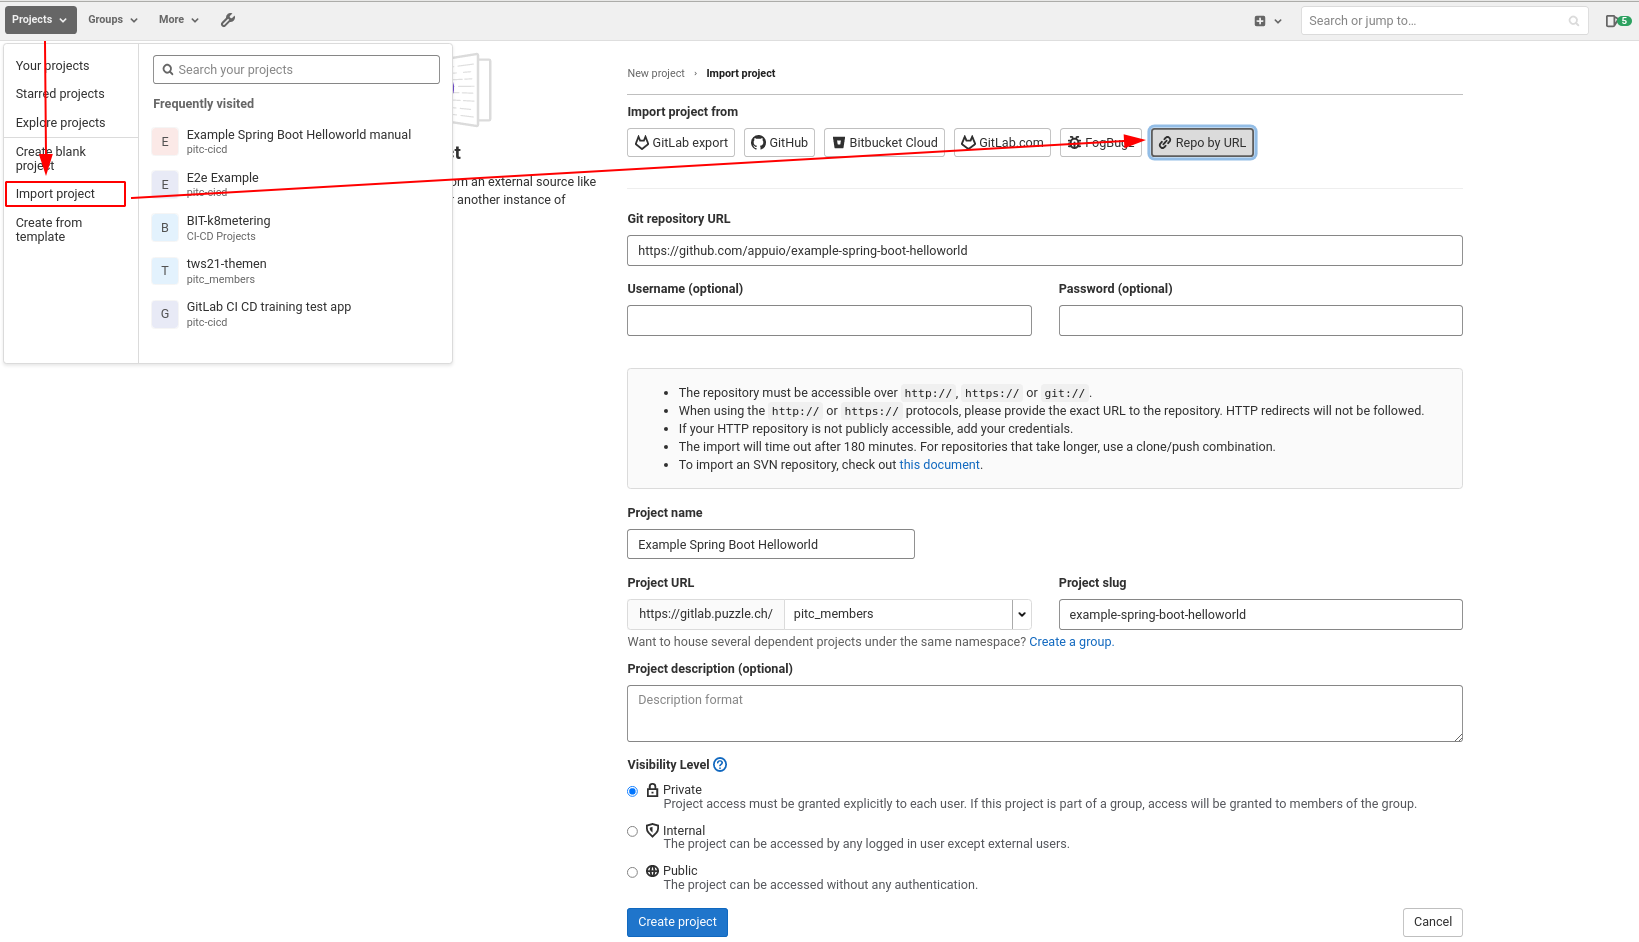
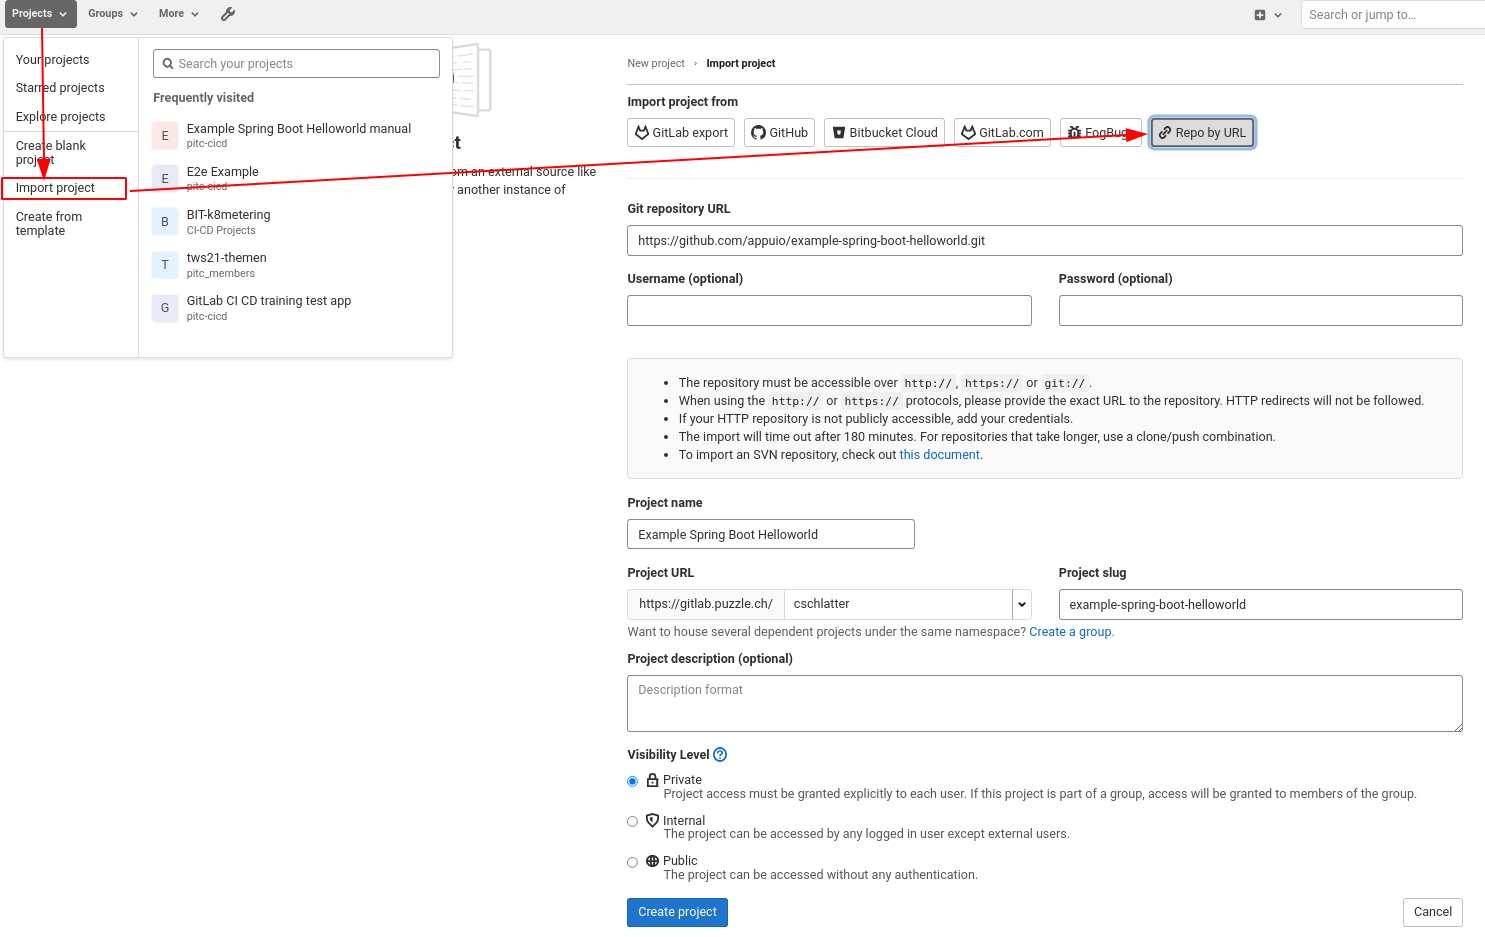
update introduction, fix manifests

diff --git a/content/en/docs/03/pipeline_basics.md b/content/en/docs/03/pipeline_basics.md
@@ -9,7 +9,7 @@ Basics on working with GitLab CI/CD pipelines.
 
 ## Task {{% param sectionnumber %}}.1: Implicit data import
 
-The content of the git repository is ...
+The content of the git repository is implicit imported into the pipeline's workspace. So you don't have to clone anything.
 <!-- TODO -->
 
 ## Task {{% param sectionnumber %}}.2: Execute single commands
@@ -26,6 +26,18 @@ Inside a job we want to define the work that is done. The easiest way is to add 
 
 
 ## Task {{% param sectionnumber %}}.3: Define scripts
+
+You can split long commands into multiline commands to improve readability with `|` (literal) and `>` (folded)
+For example:
+
+```yaml
+job:
+  script:
+    - |
+      echo "First command line."
+      echo "Second command line."
+      echo "Third command line."
+```
 
 
 ## Task {{% param sectionnumber %}}.4: Before and after scripts

diff --git a/content/en/docs/01/getting_started.md b/content/en/docs/01/getting_started.md
@@ -23,7 +23,7 @@ To get started we create a [git](https://git-scm.com/) repository holding an exa
 
 Open GitLab and navigate to `Project` 🠒 `Import Project` and select `Repo by URL`
 
-* **Git repository URL**: https://github.com/appuio/example-spring-boot-helloworld
+* **Git repository URL**: https://github.com/appuio/example-spring-boot-helloworld.git
 * **Username & Password**: Leave empty
 * **Project URL**: < TODO >
 * **Visibility level**: Private

diff --git a/content/en/docs/012/artifacts.md b/content/en/docs/012/artifacts.md
@@ -20,7 +20,7 @@ You can download job artifacts by using the GitLab UI.
 
 ## Task {{% param sectionnumber %}}.3 Artifacts Lab solution
 
-{{< highlight yaml "hl_lines=56-60" >}}{{< readfile file="manifests/012.0/.gitlab-ci.yml" >}}{{< /highlight >}}
+{{< highlight yaml "hl_lines=59-63" >}}{{< readfile file="manifests/012.0/.gitlab-ci.yml" >}}{{< /highlight >}}
 
 
 ## Task {{% param sectionnumber %}}.3 Artifacts Lab solution
